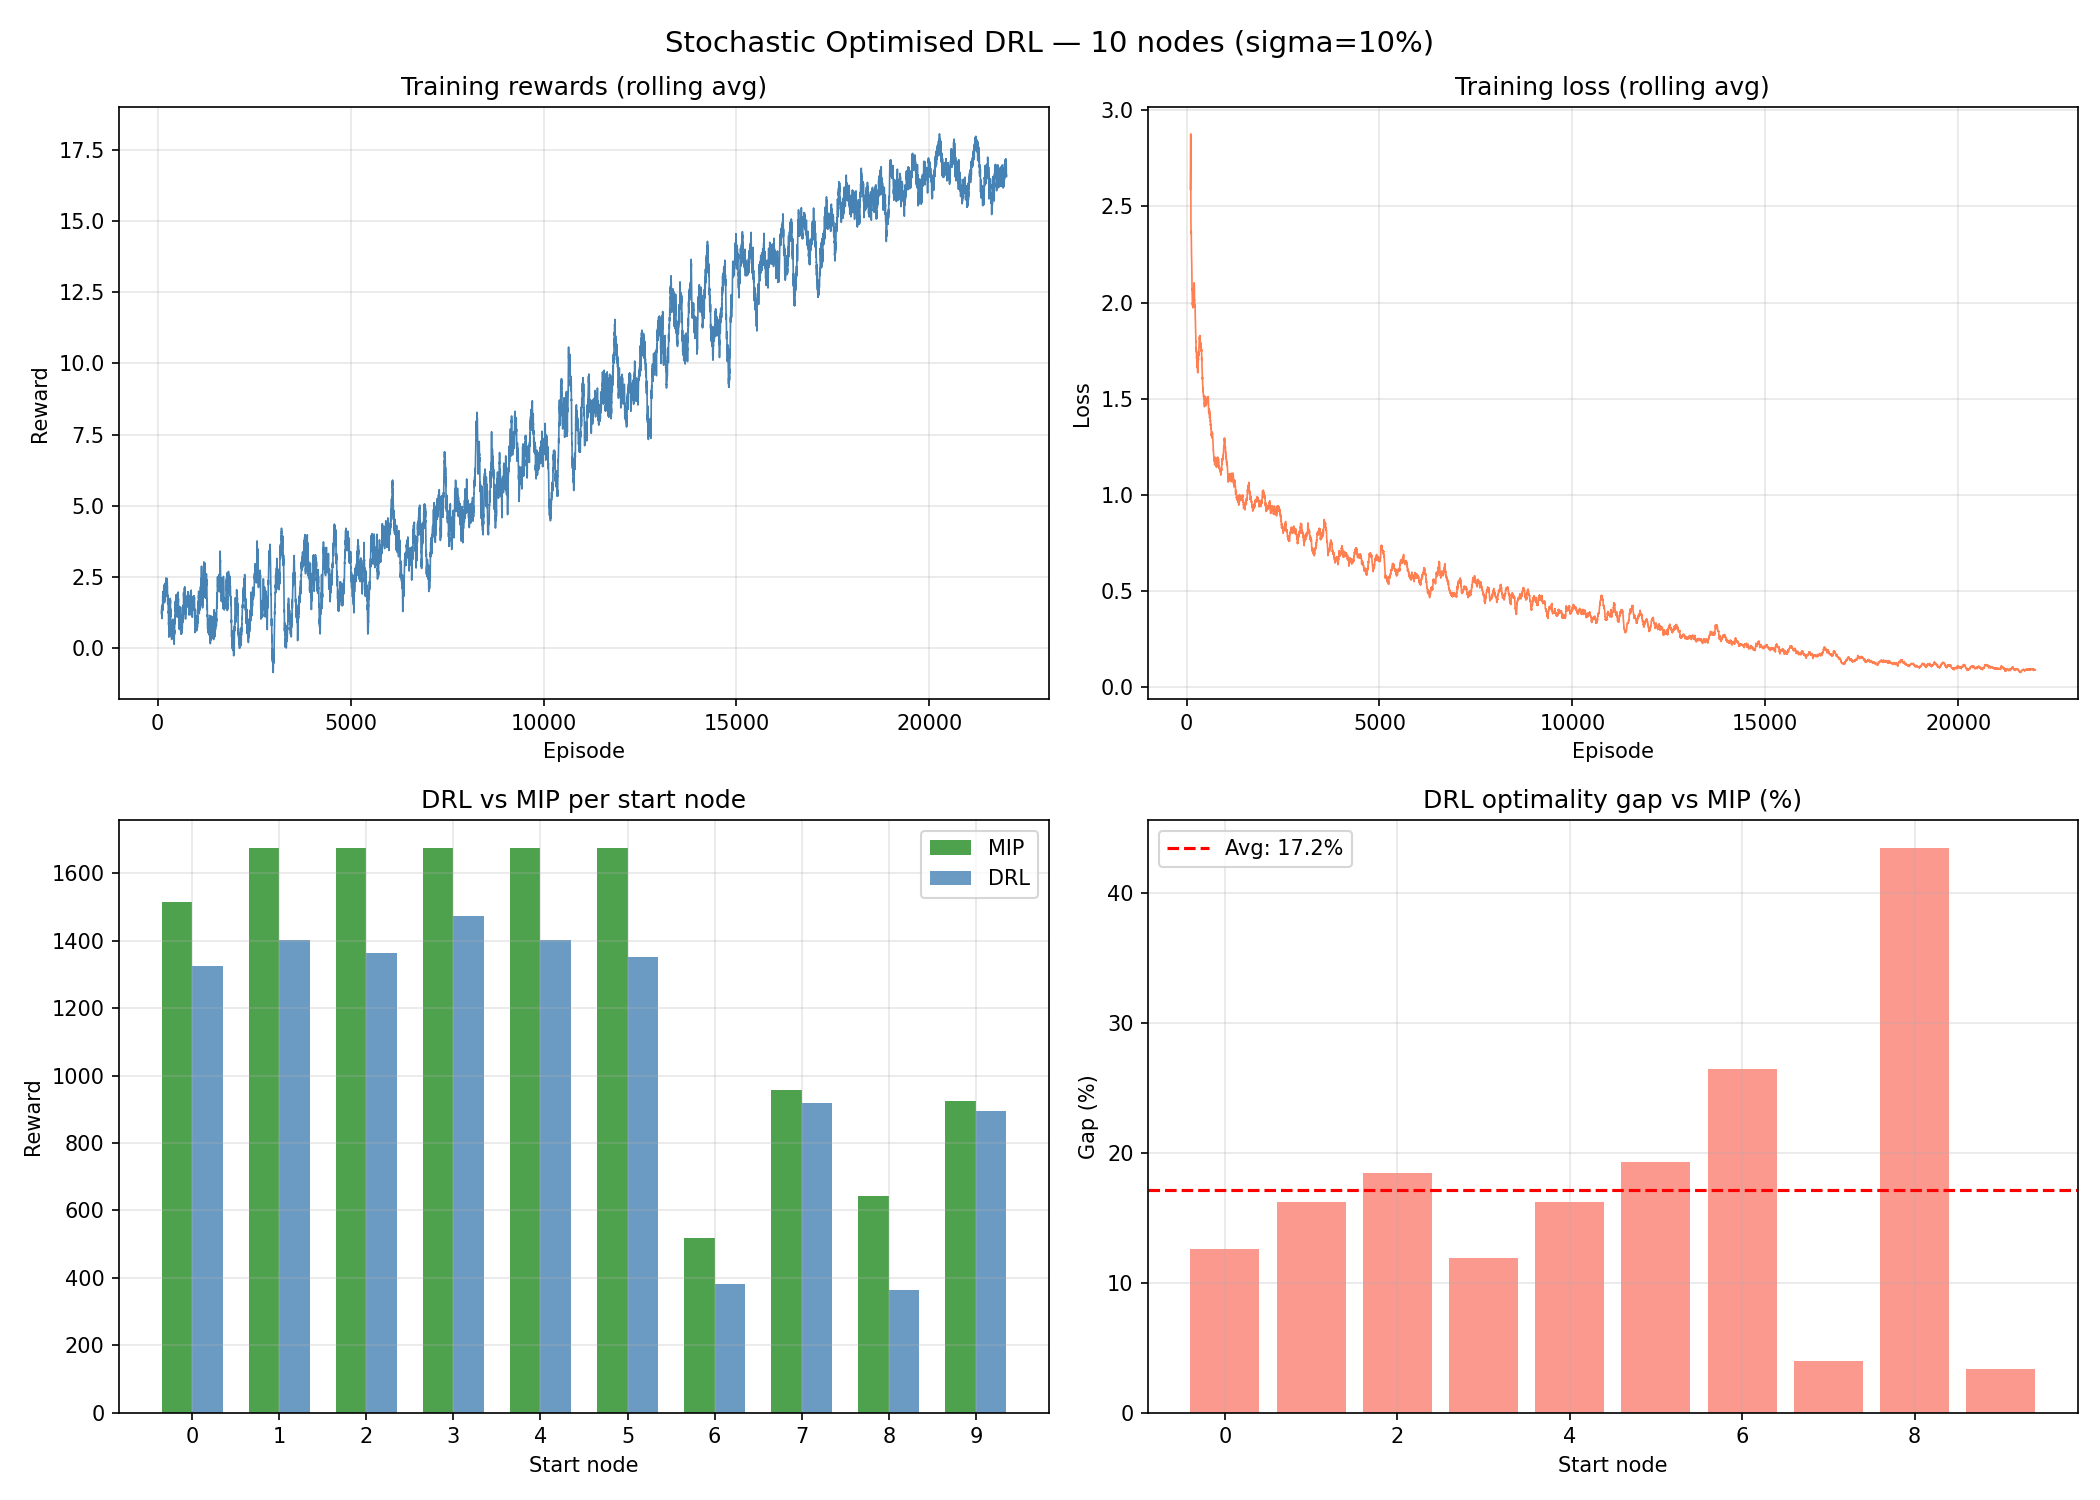
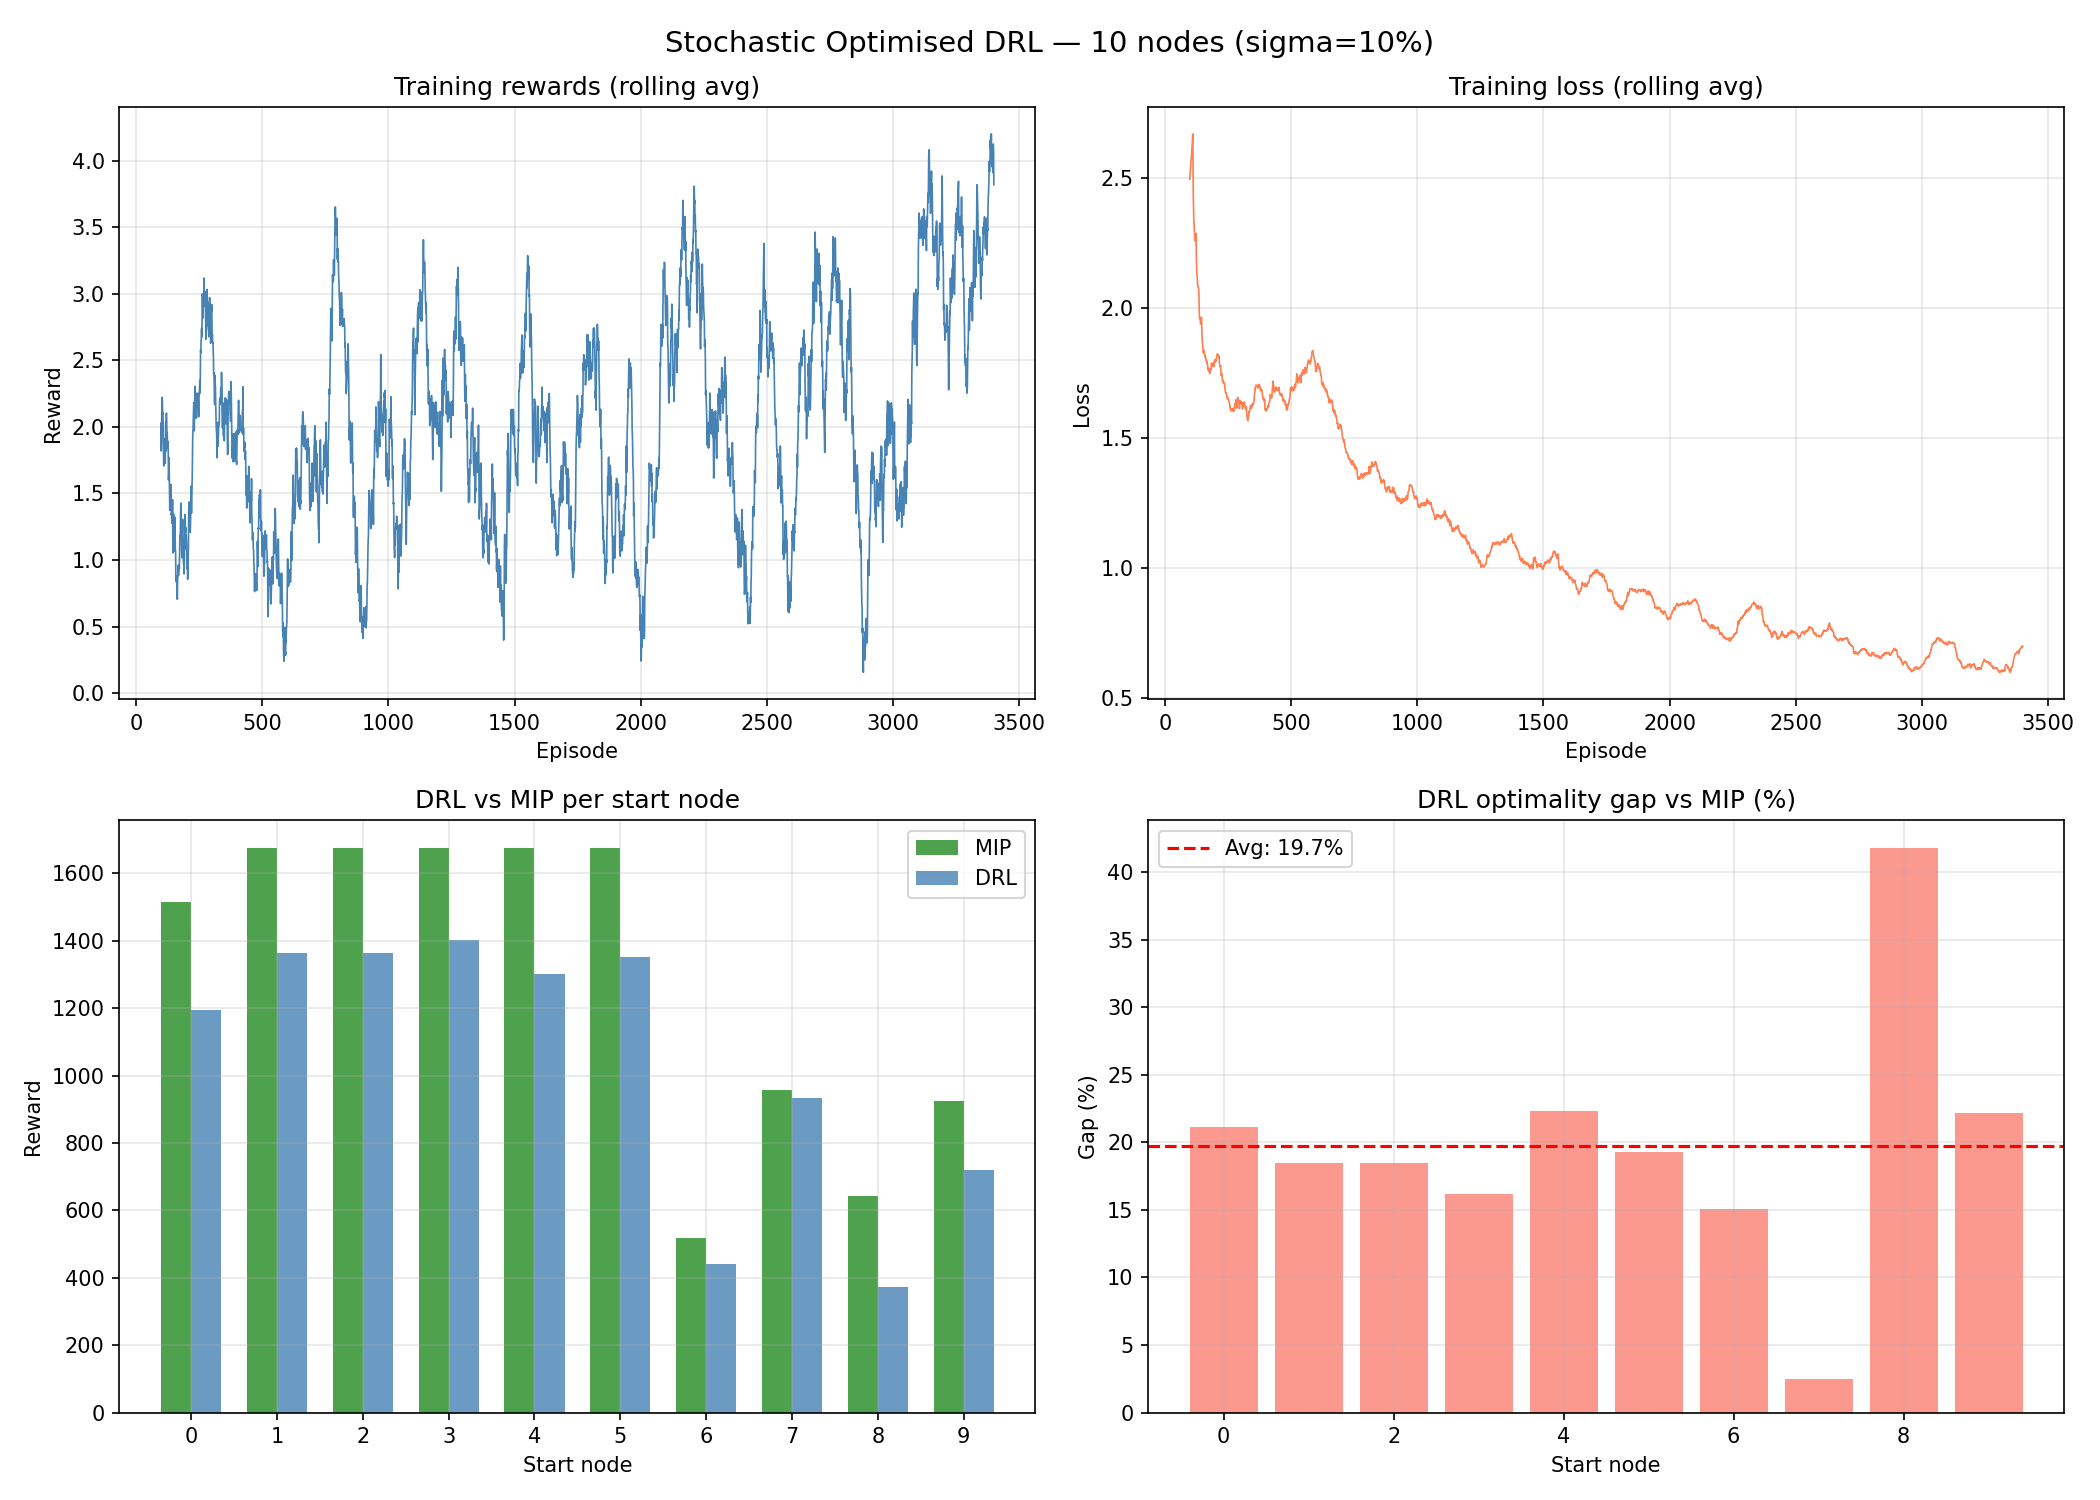
stable before gym refactor

diff --git a/tuning.py b/tuning.py
@@ -24,10 +24,10 @@ from environment import sample_stochastic_reward
 
 
 def _get_optuna_episodes(num_nodes: int) -> int:
-    if num_nodes <= 10:  return 5000
-    if num_nodes <= 15:  return 5500
-    if num_nodes <= 20:  return 6000
-    return 7500
+    if num_nodes <= 10:  return 500 #Cambiar a 5000 luego de hacer pruebas
+    if num_nodes <= 15:  return 750 #Cambiar a 5500 luego de hacer pruebas
+    if num_nodes <= 20:  return 1000 #Cambiar a 6000 luego de hacer pruebas
+    return 1500
 
 
 def _run_trial_episode(agent, start_node, time_matrix, reward_matrix_penalized,
@@ -97,7 +97,7 @@ def run_optuna(
     noise_sigma:  float,
     num_nodes:    int,
     epsilon_decay_steps: int,
-    n_trials:     int = 75,
+    n_trials:     int = 5, #Cambiar a 75 luego de hacer pruebas
 ) -> dict:
     """Run Optuna study and return best hyperparameters."""
 

diff --git a/main.py b/main.py
@@ -69,12 +69,12 @@ def main():
         print(f"State size      : {state_size}  (2 + {NUM_NODES} visited + 2 step)")
         print(f"Training episodes: {num_episodes}")
 
-        # 2. Optuna
-        print("\n--- Optuna (75 trials) ---")
+        # 2. Optuna (Cambiar a 75 trials luego de hacer pruebas)
+        print("\n--- Optuna (5 trials) ---")
         best_params = run_optuna(
             time_matrix, reward_matrix_penalized,
             noise_sigma, NUM_NODES, epsilon_decay_steps,
-            n_trials=75,
+            n_trials=5,
         )
 
         # 3. Full training

diff --git a/config.py b/config.py
@@ -29,7 +29,7 @@ LR_SCHEDULE       = "cosine"     # "cosine" | "constant"
 EPSILON_SCHEDULE  = "cosine"     # "cosine" | "linear"
 
 # ── Environment constraints ───────────────────────────────────
-DURATION_LIMIT      = 60.0
+DURATION_LIMIT      = 70.0
 DURATION_TOLERANCE  = 0.10
 MIN_DURATION        = DURATION_LIMIT * (1 - DURATION_TOLERANCE)
 MAX_DURATION        = DURATION_LIMIT * (1 + DURATION_TOLERANCE)
